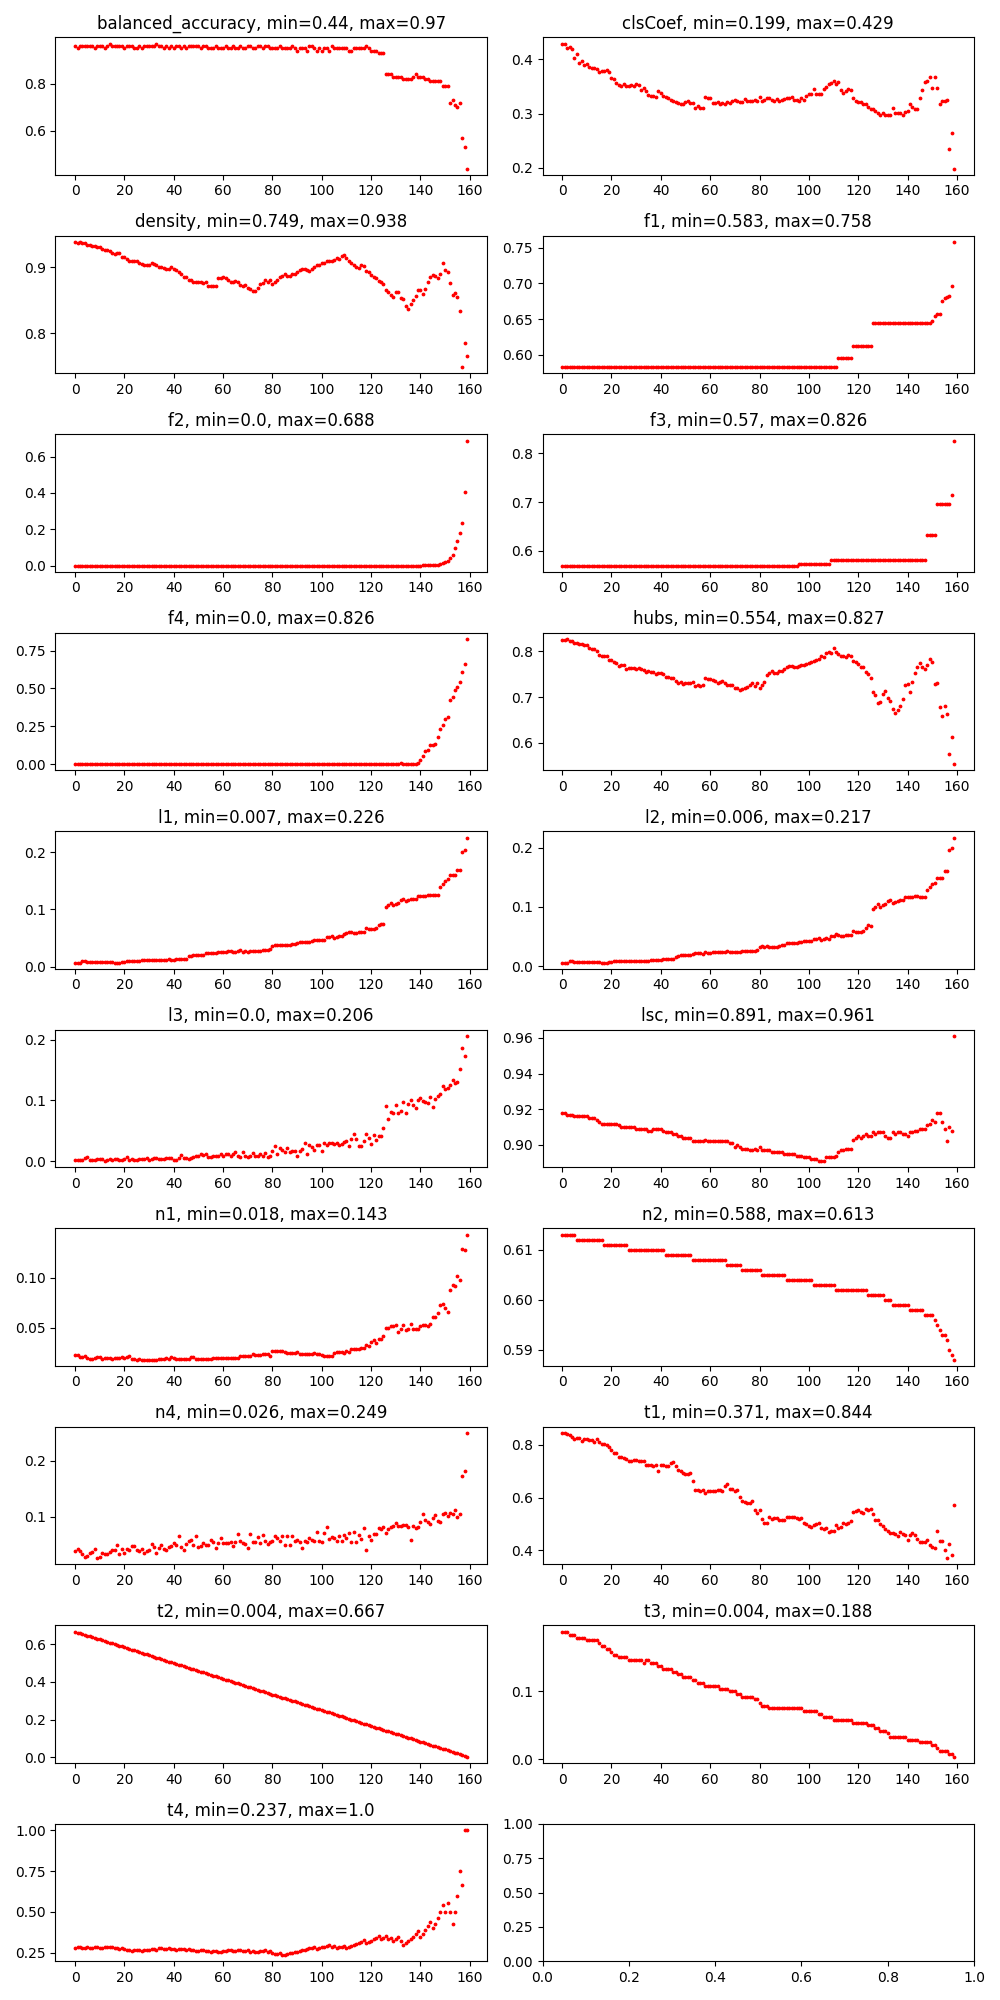
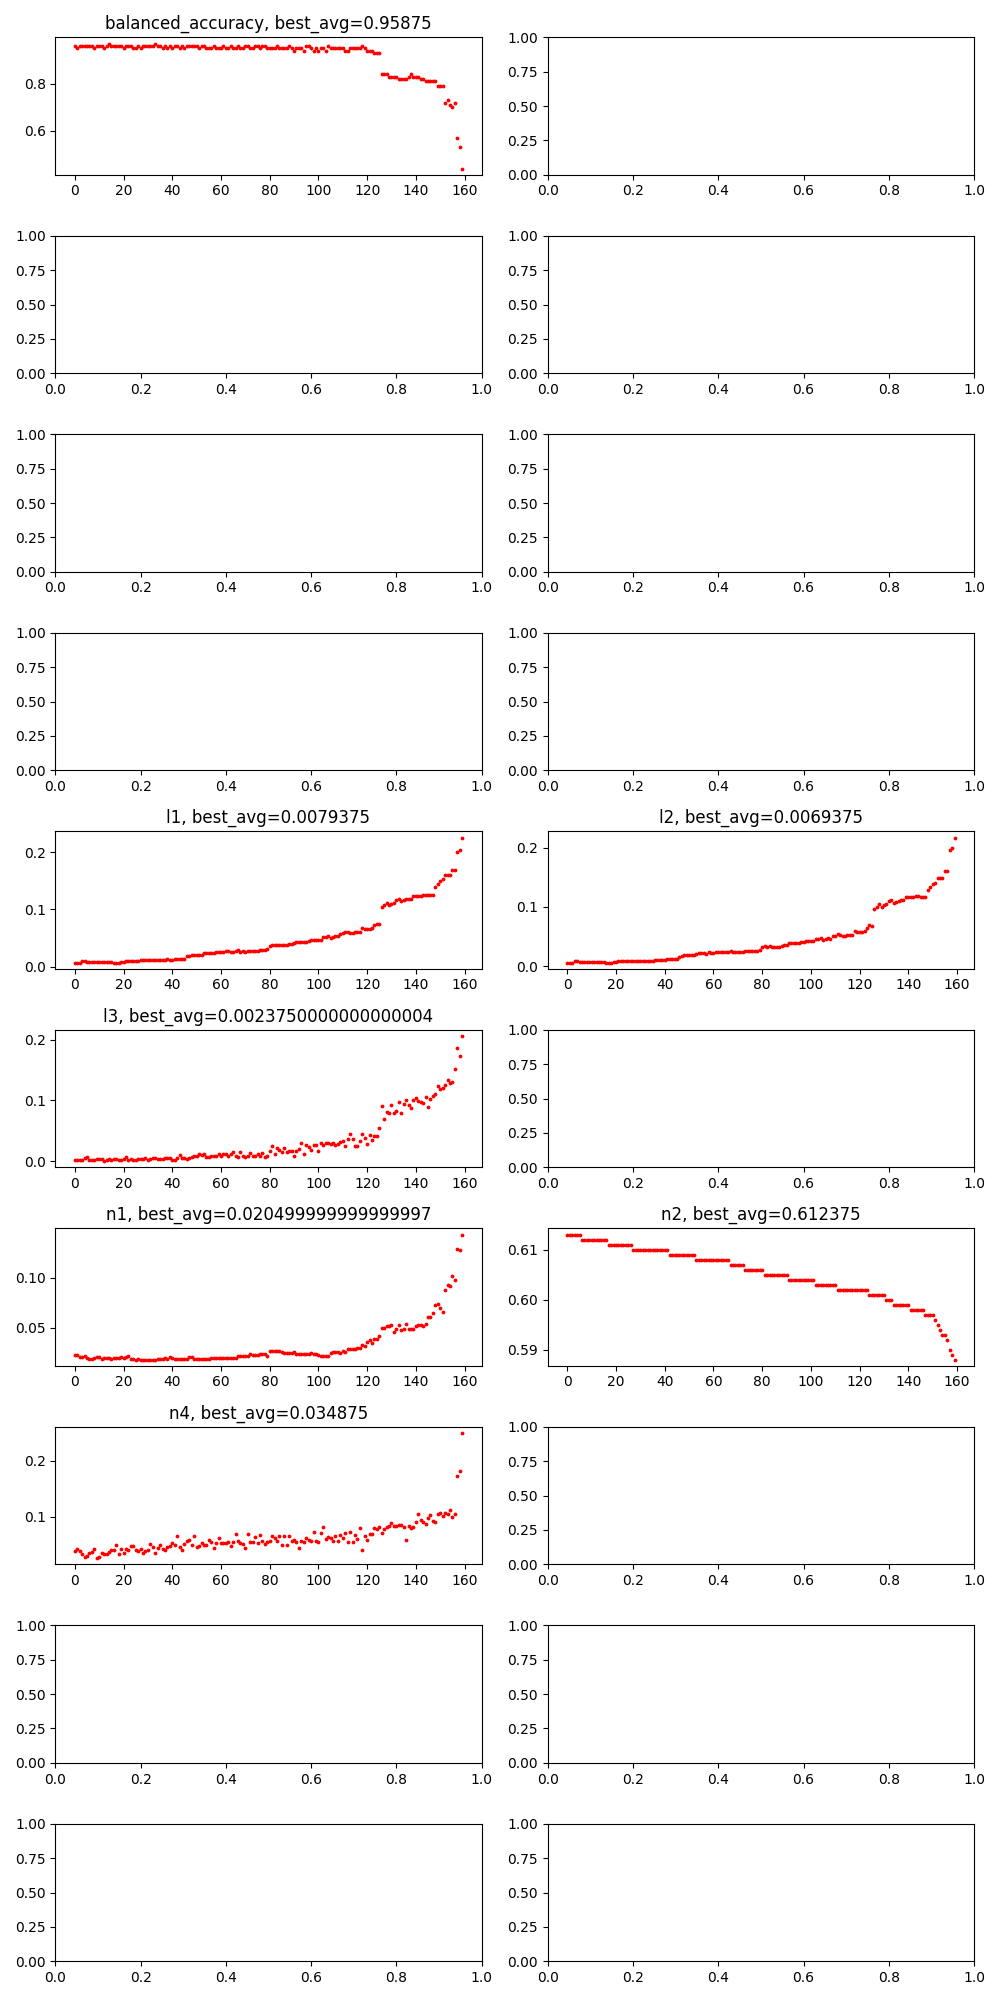
experiments 0906

diff --git a/show/measure_values_plot.py b/show/measure_values_plot.py
@@ -1,0 +1,90 @@
+import time
+import matplotlib.pyplot as plt
+import pandas as pd
+import numpy as np
+from scipy import stats
+from scipy import spatial
+
+start_time = time.time()
+
+# results_folder = 'C:/Users/alepa/Desktop/MGR/Code/show/amp3_wavdec/'
+# measures_filename = "C:/Users/alepa/Desktop/MGR/final results/problexity/amp3.txt"
+# classification_filename = "C:/Users/alepa/Desktop/MGR/final results/amp3 rfc.txt"
+
+# results_folder = 'C:/Users/alepa/Desktop/MGR/Code/show/amp2_2_wavdec/'
+# measures_filename = "C:/Users/alepa/Desktop/MGR/final results/problexity/amp2_2.txt"
+# classification_filename = "C:/Users/alepa/Desktop/MGR/final results/amp2_2 rfc.txt"
+
+# results_folder = 'C:/Users/alepa/Desktop/MGR/Code/show/amp2_wavdec/'
+# measures_filename = "C:/Users/alepa/Desktop/MGR/final results/problexity/amp2.txt"
+# classification_filename = "C:/Users/alepa/Desktop/MGR/final results/amp2 rfc.txt"
+
+results_folder = 'C:/Users/alepa/Desktop/MGR/Code/show/Barbara_wavdec/'
+measures_filename = "C:/Users/alepa/Desktop/MGR/final results/problexity/barb.txt"
+classification_filename = "C:/Users/alepa/Desktop/MGR/final results/barb rfc.txt"
+
+measures_ds = pd.read_csv(measures_filename, sep=";", decimal=".", header=0)
+clsf_ds = pd.read_csv(classification_filename, sep=";", decimal=".", header=0)
+
+class_combinations = np.unique(np.array(clsf_ds["Class combination"].values))
+
+measure_names = np.unique(np.array(measures_ds["Measure name"].values))
+
+fig, ax = plt.subplots(10, 2, figsize=(10, 20))
+ax = ax.reshape(-1)
+
+file_object = open(f'{results_folder}correlation.txt', 'w')
+# file_object = open(f'{results_folder}spearman_correlation.txt', 'w')
+# csv_header = 'Class combination;Number of classes;mean_good_accuracy;f1;min_f1;f2;min_f2;f3;min_f3;f4;min_f4;l1;min_l1;l2;min_l2;l3;min_l3;n1;min_n1;n2;min_n2;n4;min_n4'
+csv_header = 'Class combination;Number of classes;mean_good_accuracy;l1;min_l1;l2;min_l2;l3;min_l3;n1;min_n1;n2;min_n2;n4;min_n4;sum_measures;mean_measures'
+file_object.write(csv_header)  
+
+for idx, class_combination in enumerate(class_combinations):
+    if len(class_combination) < 7:
+        continue
+    sub_clsf_ds = clsf_ds.copy()
+    sub_clsf_ds = sub_clsf_ds[sub_clsf_ds["Class combination"] == class_combination]
+    rows, columns = sub_clsf_ds.shape
+    number_of_classes = np.array(sub_clsf_ds["Number of classes"].values)[0]
+
+    x = sub_clsf_ds["K worst features rejected"].values
+    accuracy = sub_clsf_ds["Mean Accuracy"].values
+    max_accuracy = np.max(accuracy)
+    min_accuracy = np.min(accuracy)
+    best_accuracies = np.sort(accuracy[0:int(len(accuracy)*0.1)])
+    avg_best_accuracy = np.mean(np.sort(accuracy[0:int(len(accuracy)*0.1)])) # 20%
+    ax[0].scatter(x, accuracy, s=3, c='red', marker='o')
+    ax[0].set_title(f"balanced_accuracy, best_avg={avg_best_accuracy}")
+
+    sub_meas_ds = measures_ds.copy()
+    sub_meas_ds = sub_meas_ds[sub_meas_ds["Class combination"] == class_combination]
+    measure_correlation_score_pvalue = []
+    measures_avg_scores = []
+    for measure_idx, measure_name in enumerate(measure_names):
+        if measure_name in csv_header:
+            sub_meas_single_ds = sub_meas_ds.copy()
+            sub_meas_single_ds = sub_meas_single_ds[sub_meas_single_ds["Measure name"] == measure_name]
+            scores = sub_meas_single_ds["Measure score"].values
+            max_score = np.max(scores)
+            min_score = np.min(scores)
+            avg_score = np.mean(np.sort(scores[0:int(len(scores)*0.1)])) # 20% DODAĆ ODNAJDOWANIE INDEKSÓW
+            ax[measure_idx+1].scatter(x, scores, s=3, c='red', marker='o')
+            ax[measure_idx+1].set_title(f"{measure_name}, best_avg={avg_score}")
+            correlation = abs(np.corrcoef(accuracy, scores)[0, 1])
+            measure_correlation_score_pvalue.append(str(round(correlation, 3)))
+            measure_correlation_score_pvalue.append(str(round(avg_score, 3)))
+            measures_avg_scores.append(avg_score)
+            print(f"{measure_name} - Correlation: s={round(correlation, 3)}")
+            print(f"{measure_name} - score: s={round(avg_score, 3)}")
+
+    plt.tight_layout()
+    plt.savefig(f"{results_folder}{class_combination}.png")
+
+    for i in range(0, 20):
+        ax[i].cla()
+    print(f"{class_combination} processed...\n")
+
+    file_object.write(f"\n{class_combination};{number_of_classes};{str(avg_best_accuracy).replace('.', ',')};{';'.join(measure_correlation_score_pvalue).replace('.', ',')};{str(round(np.sum(measures_avg_scores), 3)).replace('.', ',')};{str(round(np.mean(measures_avg_scores), 3)).replace('.', ',')}")
+
+end_time = time.time()
+print(f"Execution time: {round((end_time-start_time)/60,2)} minutes")

diff --git a/show/measures_clsf.py b/show/measures_clsf.py
@@ -3,12 +3,13 @@ import matplotlib.pyplot as plt
 import pandas as pd
 import numpy as np
 from scipy import stats
+from scipy import spatial
 
 start_time = time.time()
 
-# results_folder = 'C:/Users/alepa/Desktop/MGR/Code/show/amp3_wavdec/'
-# measures_filename = "C:/Users/alepa/Desktop/MGR/final results/problexity/amp3.txt"
-# classification_filename = "C:/Users/alepa/Desktop/MGR/final results/amp3 rfc.txt"
+results_folder = 'C:/Users/alepa/Desktop/MGR/Code/show/amp3_wavdec/'
+measures_filename = "C:/Users/alepa/Desktop/MGR/final results/problexity/amp3.txt"
+classification_filename = "C:/Users/alepa/Desktop/MGR/final results/amp3 rfc.txt"
 
 # results_folder = 'C:/Users/alepa/Desktop/MGR/Code/show/amp2_2_wavdec/'
 # measures_filename = "C:/Users/alepa/Desktop/MGR/final results/problexity/amp2_2.txt"
@@ -18,9 +19,9 @@ start_time = time.time()
 # measures_filename = "C:/Users/alepa/Desktop/MGR/final results/problexity/amp2.txt"
 # classification_filename = "C:/Users/alepa/Desktop/MGR/final results/amp2 rfc.txt"
 
-results_folder = 'C:/Users/alepa/Desktop/MGR/Code/show/Barbara_wavdec/'
-measures_filename = "C:/Users/alepa/Desktop/MGR/final results/problexity/barb.txt"
-classification_filename = "C:/Users/alepa/Desktop/MGR/final results/barb rfc.txt"
+# results_folder = 'C:/Users/alepa/Desktop/MGR/Code/show/Barbara_wavdec/'
+# measures_filename = "C:/Users/alepa/Desktop/MGR/final results/problexity/barb.txt"
+# classification_filename = "C:/Users/alepa/Desktop/MGR/final results/barb rfc.txt"
 
 measures_ds = pd.read_csv(measures_filename, sep=";", decimal=".", header=0)
 clsf_ds = pd.read_csv(classification_filename, sep=";", decimal=".", header=0)
@@ -32,9 +33,9 @@ measure_names = np.unique(np.array(measures_ds["Measure name"].values))
 fig, ax = plt.subplots(10, 2, figsize=(10, 20))
 ax = ax.reshape(-1)
 
-file_object = open(f'{results_folder}pearson_correlation.txt', 'w')
+file_object = open(f'{results_folder}correlation.txt', 'w')
 # file_object = open(f'{results_folder}spearman_correlation.txt', 'w')
-file_object.write(f'Class combination;Number of classes;mean_good_accuracy;clsCoef;density;f1;min_f1;f2;f3;f4;hubs;l1;l2;l3;lsc;n1;n2;n4;t1;t2;t3;t4')  
+file_object.write(f'Class combination;Number of classes;mean_good_accuracy;clsCoef;density;f1;min_f1;f2;f3;f4;hubs;l1;min_l1;l2;min_l2;l3;min_l3;lsc;n1;min_n1;n2;min_n2;n4;min_n4;t1;t2;t3;t4')  
 
 for idx, class_combination in enumerate(class_combinations):
     if len(class_combination) < 7:
@@ -62,16 +63,17 @@ for idx, class_combination in enumerate(class_combinations):
         min_score = np.min(scores)
         ax[measure_idx+1].scatter(x, scores, s=3, c='red', marker='o')
         ax[measure_idx+1].set_title(f"{measure_name}, min={min_score}, max={max_score}")
-        # correlation = stats.pearsonr(accuracy, scores)
-        # correlation = stats.spearmanr(accuracy, scores)
-        correlation = np.corrcoef(accuracy, scores)
-        measure_correlation_score_pvalue.append(str(round(correlation.statistic, 3)))
-        if measure_name == 'f1':
-            measure_correlation_score_pvalue.append(str(min_score))
-        print(f"{measure_name} - Correlation: s={round(correlation.statistic, 3)}")
+        # ax[measure_idx+1].scatter(scores, accuracy, s=3, c='green', marker='x')
+        # ax[measure_idx+1].set_title(f"scatter accuracy and {measure_name}")
+        correlation = abs(np.corrcoef(accuracy, scores)[0, 1])
+        measure_correlation_score_pvalue.append(str(round(correlation, 3)))
+        if measure_name == 'f1' or measure_name == 'l1' or measure_name == 'l2' or measure_name == 'l3' or measure_name == 'n1' or measure_name == 'n2' or measure_name == 'n4':
+            measure_correlation_score_pvalue.append(str(np.mean(np.sort(scores[0:20]))))
+        print(f"{measure_name} - Correlation: s={round(correlation, 3)}")
 
-    # plt.tight_layout()
-    # plt.savefig(f"{results_folder}{class_combination}.png")
+    plt.tight_layout()
+    plt.savefig(f"{results_folder}{class_combination}.png")
+    # plt.savefig(f"{results_folder}{class_combination}_scatter.png")
 
     for i in range(0, 20):
         ax[i].cla()
